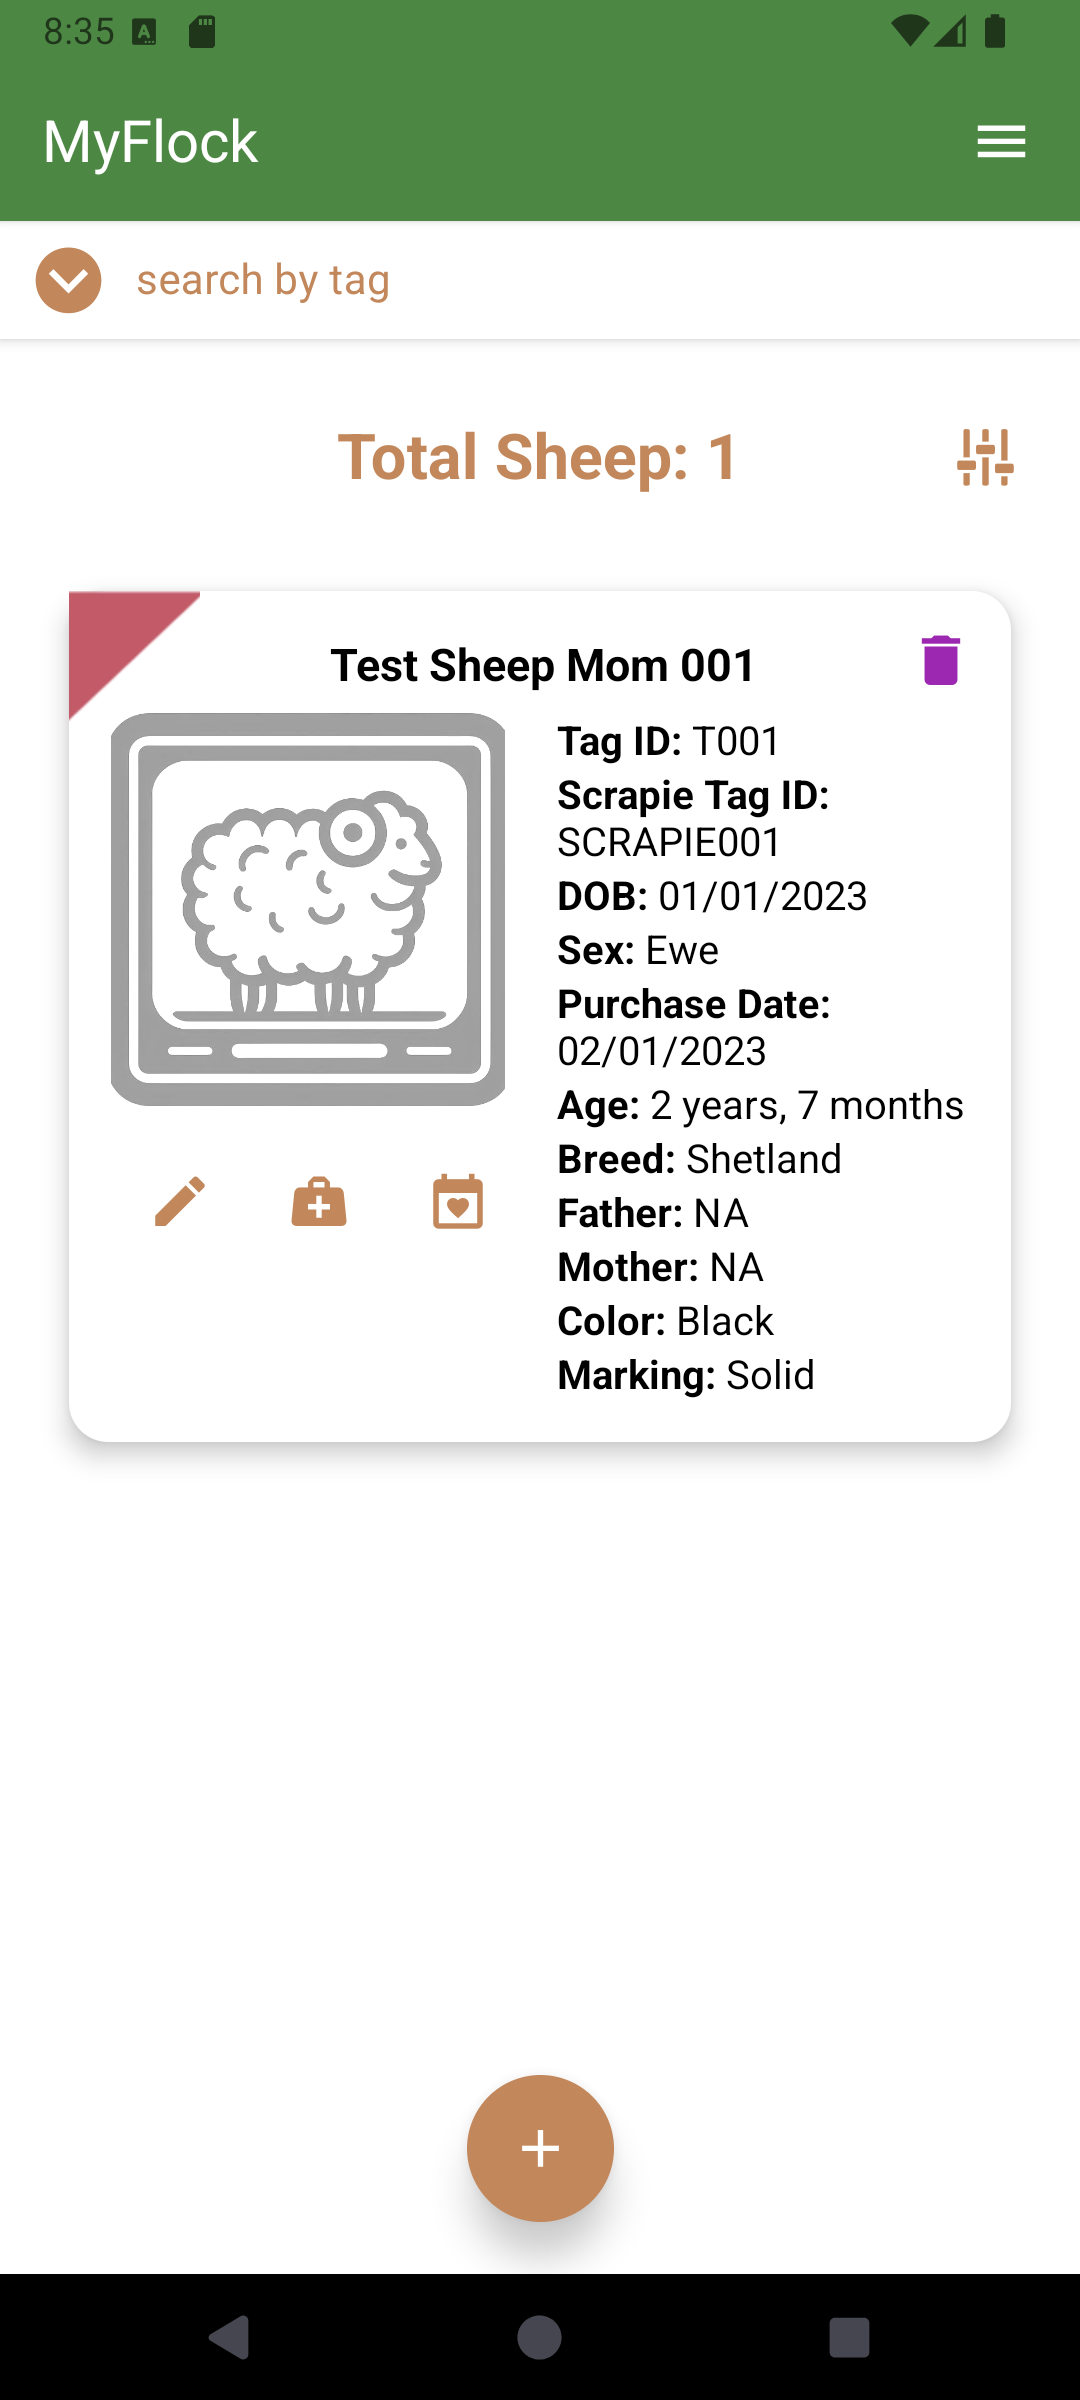
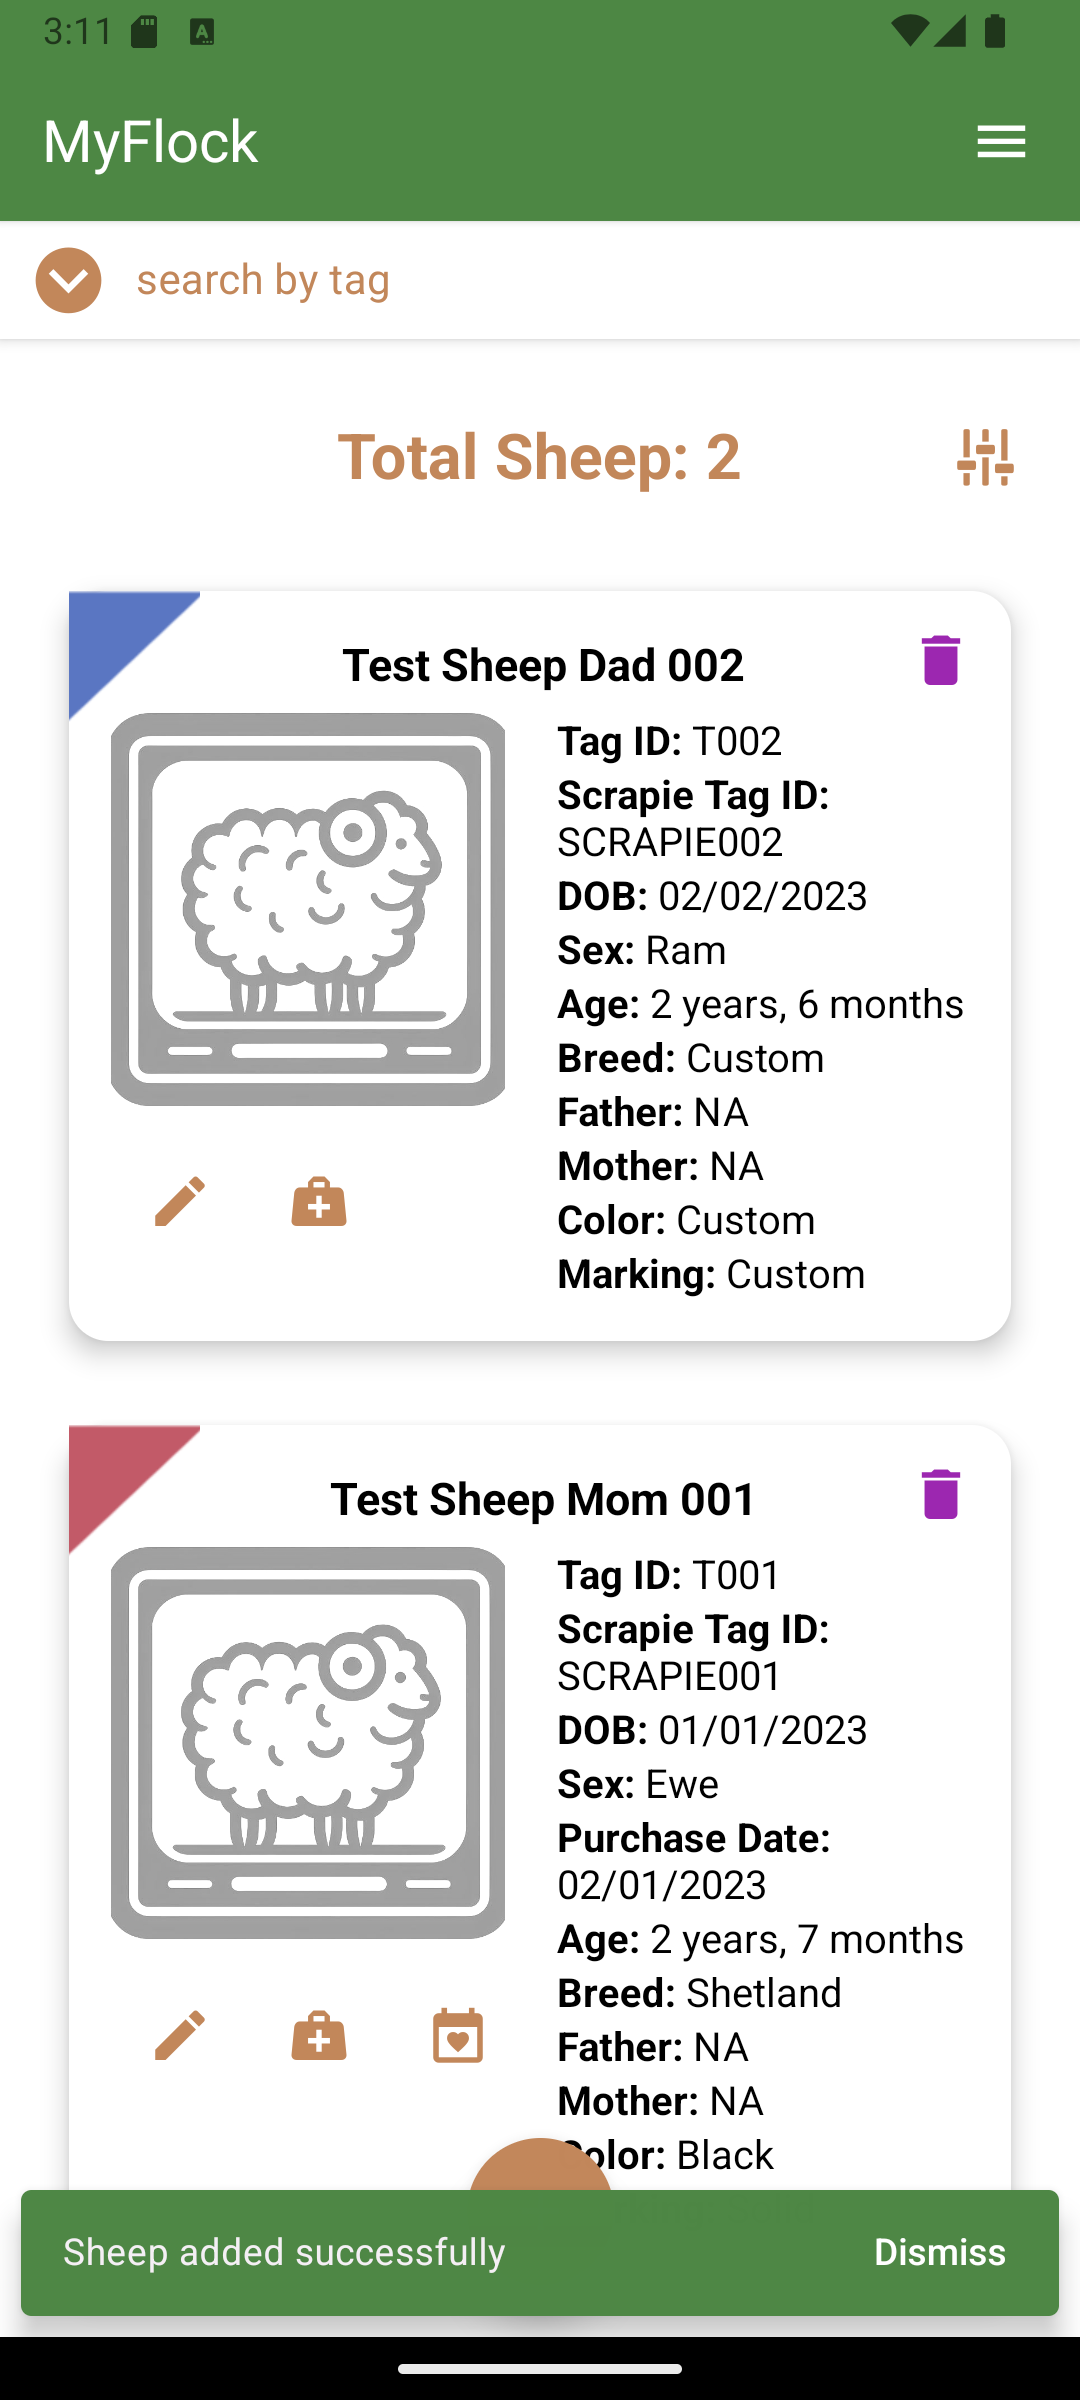
adding tests

diff --git a/test.md b/test.md
@@ -1,0 +1,15 @@
+Summary - E2E Testing Workflow with Maestro
+Here's your complete E2E testing workflow:
+
+1. Build the app for testing:
+npx expo run:android --variant release --no-install
+2. Install the APK:
+adb install android/app/build/outputs/apk/release/app-release.apk
+3. Run E2E tests:
+# Run a specific test
+maestro test flows/basic_test.yaml
+
+# Run all tests in the flows directory
+npm run test:e2e
+# or
+maestro test flows/
